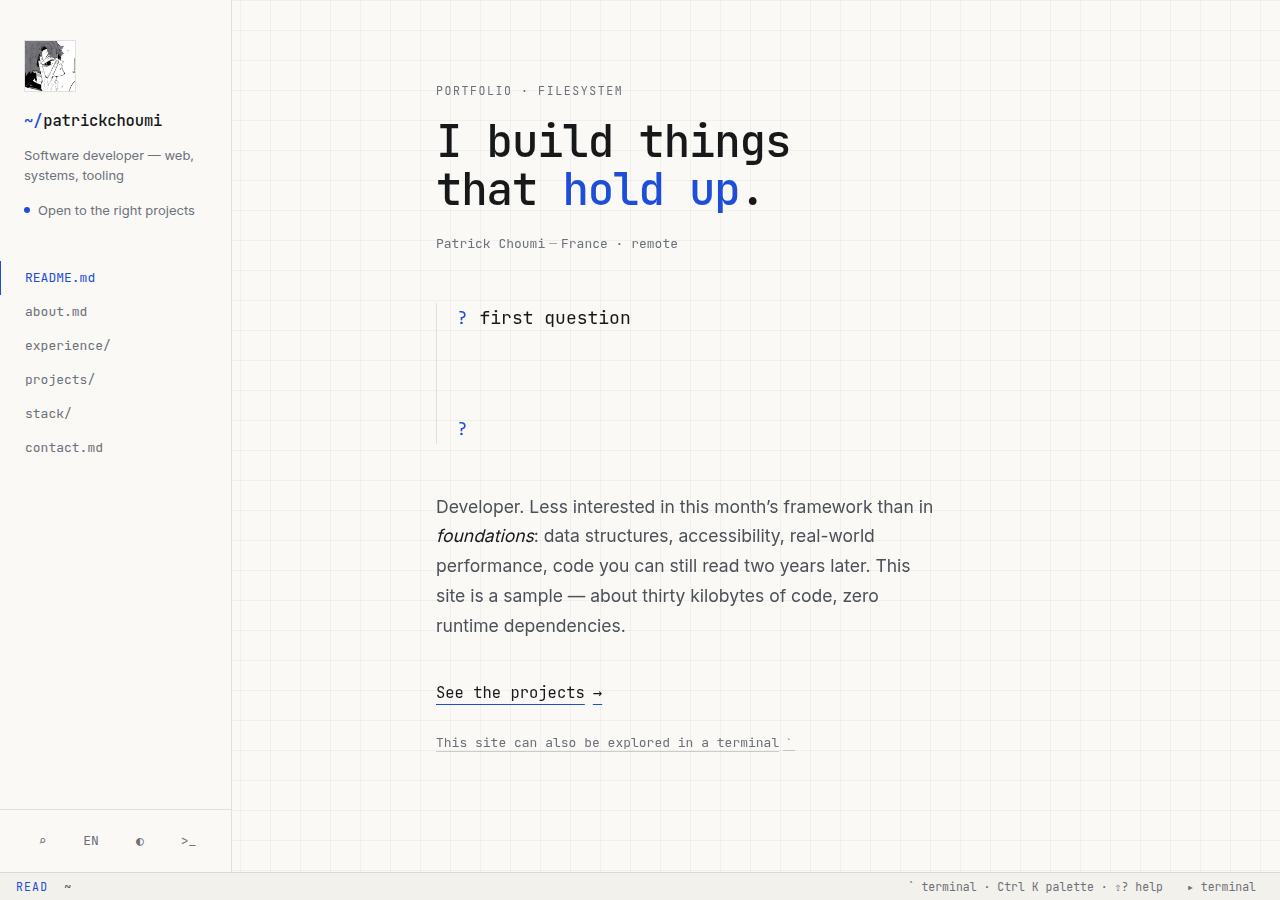
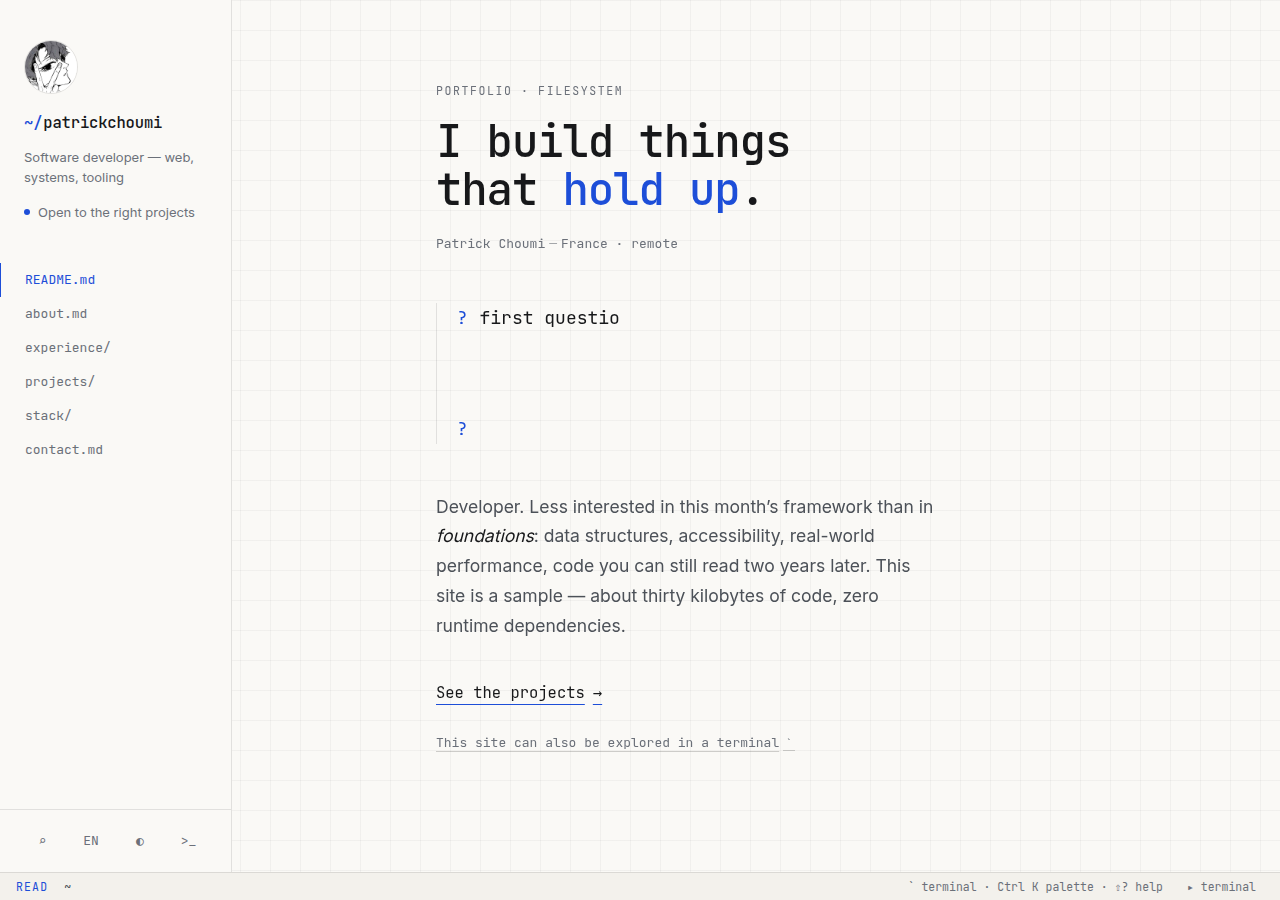
Fige le portrait à la taille calibrée, et arrondit le médaillon
Deux ajustements demandés.

Le rendu en caractères
   Les réglages de src/js/ascii.js avaient été calibrés à l'œil sur une
   largeur de 52 colonnes — celle qu'utilise `neofetch`. `portrait`, lui,
   dimensionnait son dessin pour tenir dans la hauteur du tiroir, ce qui le
   ramenait à une quarantaine de colonnes : plus grossier, et moins fidèle à
   l'image. Les deux commandes partagent maintenant la même largeur de
   référence, et le portrait est identique partout. Plus large, le dessin
   s'éclaircit et se dilue ; plus étroit, il sature — la taille fait partie
   du réglage, elle n'est pas libre.

   La largeur du terminal reste la limite : sur un téléphone, le dessin
   s'adapte plutôt que de déborder. `portrait 90` donne toujours une version
   plus grande. Le cadrage automatique en hauteur et le helper `rows()` qu'il
   demandait sont retirés — plus d'appelant, plus de code.

Le médaillon
   La photo passe en cercle, et l'image est légèrement agrandie et recentrée
   sur le visage : dans un médaillon de cinquante pixels, cadrer la planche
   entière ne montrait rien.

   C'est une entorse assumée à la règle « aucun coin arrondi » du reste du
   site, notée comme telle dans le design system. Elle se défend : un avatar
   rond est une convention universelle, et la forme distingue immédiatement
   une personne d'un élément d'interface. Avec la pastille de disponibilité,
   ce sont les deux seules formes rondes du site — et toutes deux portent du
   sens.
[…]

Changed region(s): [[0.0, 0.0311, 0.1562, 0.2489], [0.0312, 0.3422, 0.0938, 0.4667], [0.0312, 0.28, 0.0625, 0.3111]]

diff --git a/src/js/commands.js b/src/js/commands.js
@@ -72,6 +72,12 @@ export function escapeHtml(s) {
   return String(s).replace(/[&<>"']/g, (c) => ({ '&': '&amp;', '<': '&lt;', '>': '&gt;', '"': '&quot;', "'": '&#39;' }[c]));
 }
 
+// Largeur de référence du portrait en caractères. Les réglages de
+// src/js/ascii.js ont été calibrés à l'œil sur cette taille : `portrait` et
+// `neofetch` s'y tiennent tous les deux, pour que le dessin soit le même
+// partout.
+const PORTRAIT_COLS = 52;
+
 // Vignette de secours : utilisée par `neofetch` tant qu'aucune photo n'est
 // déposée dans public/avatar.png.
 const FALLBACK_ART = [
@@ -243,7 +249,7 @@ export const COMMANDS = {
     run: async (args, ctx) => {
       // Le dessin prend la moitié gauche, la fiche tient dans le reste : on
       // laisse toujours de quoi écrire « Role: … » à droite.
-      const art = (await ctx.ascii(Math.max(24, Math.min(52, ctx.columns() - 40)))) || FALLBACK_ART;
+      const art = (await ctx.ascii(Math.max(24, Math.min(PORTRAIT_COLS, ctx.columns() - 40)))) || FALLBACK_ART;
       const info = [
         [`${identity.handle}@${host}`, ''],
         ['─'.repeat(26), ''],
@@ -277,13 +283,14 @@ export const COMMANDS = {
   portrait: {
     usage: { fr: 'affiche la photo de profil en caractères', en: 'render the profile picture as characters' },
     run: async (args, ctx) => {
-      // Sans argument, le portrait est cadré pour tenir dans la fenêtre du
-      // terminal : on le voit en entier, sans faire défiler. Avec un argument
-      // (`portrait 90`), on demande explicitement plus de détail, quitte à
-      // devoir dérouler.
+      // Cinquante-deux colonnes par défaut : c'est la taille sur laquelle le
+      // rendu a été calibré, et celle qui ressemble le plus à l'image. Plus
+      // large, le dessin s'éclaircit et se dilue ; plus étroit, il sature.
+      // La largeur du terminal reste la limite — sur un téléphone, le dessin
+      // s'adapte plutôt que de déborder.
       const asked = Number(args[0]);
-      const cols = Math.min(120, Math.max(20, asked || ctx.columns()));
-      const art = await ctx.ascii(cols, asked ? {} : { maxRows: ctx.rows() - 2 });
+      const cols = Math.min(120, Math.max(20, asked || Math.min(PORTRAIT_COLS, ctx.columns())));
+      const art = await ctx.ascii(cols);
       if (!art) {
         // Le chemin vient des données : le message ne peut pas mentir sur
         // l'endroit où déposer le fichier.
@@ -295,12 +302,12 @@ export const COMMANDS = {
         ];
       }
       const out = art.map((l) => html(`<span class="art">${escapeHtml(l)}</span>`));
-      // Le cadrage automatique privilégie la vue d'ensemble ; on dit comment
-      // en demander plus, sinon personne ne devine que l'argument existe.
+      // On dit comment demander plus grand, sinon personne ne devine que
+      // l'argument existe.
       if (!asked) {
         out.push(dim(ctx.lang === 'en'
-          ? '`portrait 90` for a larger, more detailed one.'
-          : '`portrait 90` pour une version plus grande et plus détaillée.'));
+          ? '`portrait 90` for a larger one.'
+          : '`portrait 90` pour une version plus grande.'));
       }
       return out;
     }

diff --git a/src/styles/main.css b/src/styles/main.css
@@ -16,7 +16,9 @@
    2. AUCUNE BOÎTE. Ni carte, ni ombre, ni coin arrondi, ni
       badge, ni pastille. La seule ligne autorisée est un filet
       d'un pixel entre deux rangées. La structure vient du
-      blanc et de l'alignement.
+      blanc et de l'alignement. Deux exceptions, toutes deux
+      rondes et toutes deux porteuses de sens : la pastille de
+      disponibilité, et le médaillon de la photo de profil.
    3. UN SEUL ACCENT, RARE. Un bleu — celui des dossiers dans un
       `ls`. Il marque la page courante, le curseur, l'invite du
       shell et le mot souligné du titre. Nulle part ailleurs.
@@ -333,14 +335,20 @@ kbd {
    INVERSÉE en thème sombre pour que le fond blanc ne troue pas la colonne.
    Résultat : le portrait apparaissait en négatif, méconnaissable. Sur un
    avatar, l'identité prime sur la palette : aucun filtre, aucune inversion.
-   Le seul effet est un liseré d'accent au survol, pour dire que c'est
-   cliquable — cliquer l'ouvre en caractères dans le terminal. */
+
+   Le cercle est la seule entorse à la règle « aucun coin arrondi » du reste
+   du site. Elle se défend : un avatar rond est une convention universelle,
+   et la forme distingue immédiatement une personne d'un élément d'interface.
+   L'image est légèrement agrandie et recentrée sur le visage — dans un
+   médaillon de cinquante pixels, cadrer la planche entière ne montre rien. */
 .avatar {
   display: block;
-  width: 52px; height: 52px;
+  width: 54px; height: 54px;
   margin-bottom: var(--space-4);
   padding: 0; background: none;
   border: 1px solid var(--rule);
+  border-radius: 50%;
+  overflow: hidden;
   cursor: pointer;
   line-height: 0;
   transition: border-color var(--t);
@@ -349,6 +357,8 @@ kbd {
   width: 100%; height: 100%;
   object-fit: cover;
   display: block;
+  transform: scale(1.35);
+  transform-origin: 56% 30%;
 }
 .avatar:hover, .avatar:focus-visible { border-color: var(--accent); }
 /* Tant qu'aucun fichier n'est déposé, le bouton n'occupe pas d'espace. */

diff --git a/src/js/ascii.js b/src/js/ascii.js
@@ -83,19 +83,10 @@ export function loadImage(url) {
 // Renvoie un tableau de lignes de texte, de `cols` caractères de large.
 // `charRatio` : hauteur d'un caractère divisée par sa largeur, à l'écran.
 export async function imageToAscii(url, cols = 40, {
-  charRatio = DEFAULT_CHAR_RATIO, inkBias = INK_BIAS, gamma = GAMMA, maxRows = 0
+  charRatio = DEFAULT_CHAR_RATIO, inkBias = INK_BIAS, gamma = GAMMA
 } = {}) {
   const img = await loadImage(url);
-  const aspect = img.naturalHeight / img.naturalWidth;
-
-  let rows = Math.max(1, Math.round((cols * aspect) / charRatio));
-  // Un portrait plus haut que la fenêtre oblige à faire défiler pour le voir
-  // en entier : on préfère le rétrécir jusqu'à ce qu'il tienne d'un coup
-  // d'œil. Une largeur explicite (`portrait 90`) passe outre.
-  if (maxRows && rows > maxRows) {
-    rows = maxRows;
-    cols = Math.max(12, Math.round((rows * charRatio) / aspect));
-  }
+  const rows = Math.max(1, Math.round((cols * img.naturalHeight / img.naturalWidth) / charRatio));
 
   const key = `${url}|${cols}×${rows}|${charRatio.toFixed(2)}|${inkBias}|${gamma}`;
   if (cache.has(key)) return cache.get(key);

diff --git a/src/js/shell.js b/src/js/shell.js
@@ -83,11 +83,6 @@ export function initShell(hooks) {
       }
     },
 
-    // Nombre de lignes visibles sans faire défiler.
-    rows: () => {
-      const { lineHeight } = metrics();
-      return Math.max(6, Math.floor(el.screen.clientHeight / lineHeight));
-    },
     uptime: () => {
       const s = Math.floor((Date.now() - started) / 1000);
       return s < 60 ? `${s}s` : `${Math.floor(s / 60)}m ${s % 60}s`;

diff --git a/README.md b/README.md
@@ -33,10 +33,12 @@ la met en pratique sous les yeux du visiteur :
 
 C'est le principe du site appliqué au visage : **une seule image, deux rendus.**
 
-Dans le sommaire, la photo de profil est affichée telle qu'elle est. Une
-version « duotone » a été tentée — teintée à l'accent et inversée en thème
-sombre pour que le fond blanc ne troue pas la colonne : le portrait sortait en
-négatif, méconnaissable. Sur un avatar, l'identité prime sur la palette.
+Dans le sommaire, la photo de profil est affichée telle qu'elle est, dans un
+médaillon rond légèrement recentré sur le visage — à cinquante pixels, cadrer
+la planche entière ne montre rien. Une version « duotone » a été tentée —
+teintée à l'accent et inversée en thème sombre pour que le fond blanc ne troue
+pas la colonne : le portrait sortait en négatif, méconnaissable. Sur un avatar,
+l'identité prime sur la palette.
 
 Dans le terminal, `portrait` convertit **le même fichier** en tableau de
 caractères, à la volée :
@@ -50,8 +52,7 @@ dans le sommaire ouvre le terminal dessus.
 La conversion (`src/js/ascii.js`) se fait dans le navigateur, au moment où on
 la demande : aucune étape de build, aucun décodeur d'image à écrire, aucune
 dépendance. N'importe quel format que le navigateur sait lire fonctionne
-(png, jpg, webp, avif), la largeur suit celle du terminal, et le résultat est
-mis en cache.
+(png, jpg, webp, avif), et le résultat est mis en cache.
 
 Trois pièges ont demandé un essai raté avant de tomber juste.
 
@@ -73,8 +74,11 @@ discutable sur des chemins ; sur un dessin en caractères c'est fatal — les
 fusions disloquent la grille et le portrait devient une bouillie de traits.
 Le terminal coupe donc les ligatures (`font-variant-ligatures: none`).
 
-Sans argument, `portrait` cadre le dessin pour qu'il tienne dans la fenêtre du
-terminal. `portrait 90` en demande une version plus grande, quitte à dérouler.
+**La taille n'est pas libre.** Les réglages ci-dessus ont été calibrés à l'œil
+sur une largeur précise — 52 colonnes. Plus large, le dessin s'éclaircit et se
+dilue en bruit ; plus étroit, il sature. `portrait` et `neofetch` s'y tiennent
+donc tous les deux, pour que le portrait soit le même partout. `portrait 90`
+reste possible pour une version plus grande.
 
 ### Mettre ta photo
 
@@ -102,7 +106,10 @@ revue, alors que le sujet est un poste de travail.
 
 **2. Aucune boîte.** Ni carte, ni ombre, ni coin arrondi, ni badge, ni
 pastille. La seule ligne autorisée est un filet d'un pixel entre deux rangées.
-La structure vient du blanc et de l'alignement.
+La structure vient du blanc et de l'alignement. Deux exceptions, toutes deux
+rondes et toutes deux porteuses de sens : la pastille de disponibilité, et le
+médaillon de la photo de profil — un avatar rond est une convention qui
+distingue immédiatement une personne d'un élément d'interface.
 
 **3. Un seul accent, rare.** Un bleu — celui des dossiers dans un `ls`. Il
 marque la page courante, le curseur, l'invite du shell et le mot souligné du
